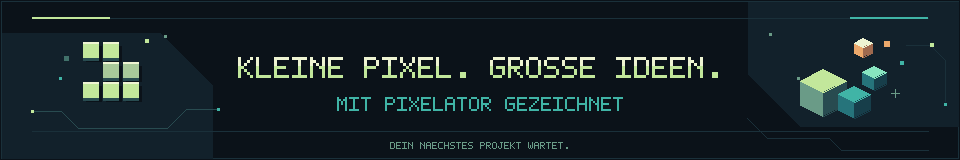
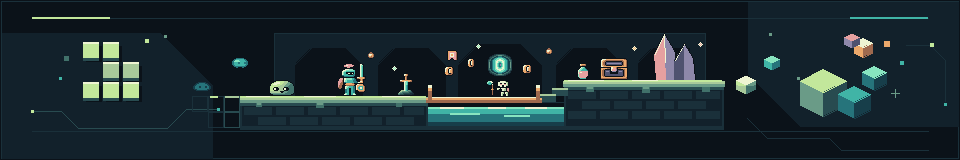
feat: update header and footer images in README for improved branding

diff --git a/README.md b/README.md
@@ -64,4 +64,4 @@ Danach die MCP-Verbindung im Client neu laden. [Weitere Details](docs/mcp.md) ·
 
 Daten liegen in `data/`. Für Backups die App beenden und den Ordner sichern.
 
-![Kleine Pixel. Große Ideen. Mit Pixelator gezeichnet.](docs/assets/readme-footer.png)
+![Pixelator Panorama](docs/assets/readme-footer.png)
